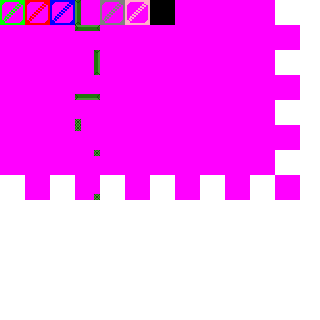
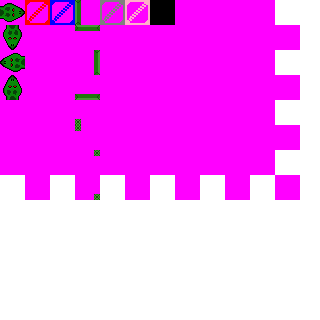
agregando algunos sprites

Changed region(s): [[0.0, 0.0, 0.0938, 0.3125]]

diff --git a/Snake/src/juego/Vivora.java b/Snake/src/juego/Vivora.java
@@ -13,7 +13,7 @@ public class Vivora {
 	public static int vidas = 3;
 	public static int puntos = 0;
 	private static int contador = 0;
-	private static char direccion = 'd';
+	public static char direccion = 'd';
 
 	// getters y setters
 	// ----------------------------------------------------------------------------------
@@ -67,6 +67,16 @@ public class Vivora {
 		if (contador >= 10) {
 			int x = this.x + despx;
 			int y = this.y + despy;
+
+			if (despx > 0 && despy == 0) {
+				this.direccion = 'd';
+			} else if (despx < 0 && despy == 0) {
+				this.direccion = 'i';
+			} else if (despx == 0 && despy > 0) {
+				this.direccion = 's';
+			} else if (despx == 0 && despy < 0) {
+				this.direccion = 'w';
+			}
 
 			switch (mapa[y * Mapa.CUADROS_ANCHO + x]) {
 			case 0xff00ff00:

diff --git a/Snake/src/juego/CuadroCabeza.java b/Snake/src/juego/CuadroCabeza.java
@@ -5,6 +5,11 @@ public class CuadroCabeza extends Cuadro {
 	private static final int color = 0xff00ff00;
 	private static final boolean solidez = true;
 	private int x, y;
+	public static Sprites Derecha;
+	public static Sprites Izquierda;
+	public static Sprites Arriba;
+	public static Sprites Abajo;
+
 	public static final int ID = 2;
 
 	// gett sett
@@ -29,5 +34,10 @@ public class CuadroCabeza extends Cuadro {
 
 	public CuadroCabeza() {
 		super(solidez, color, new Sprites(LADO, 0, 0, HojaSprites.Hoja1));
+		Derecha = new Sprites(LADO, 0, 0, HojaSprites.Hoja1);
+		Abajo = new Sprites(LADO, 0, 1, HojaSprites.Hoja1);
+		Izquierda = new Sprites(LADO, 0, 2, HojaSprites.Hoja1);
+		Arriba = new Sprites(LADO, 0, 3, HojaSprites.Hoja1);
+
 	}
 }

diff --git a/Snake/src/juego/Pantalla.java b/Snake/src/juego/Pantalla.java
@@ -109,6 +109,20 @@ public class Pantalla extends Canvas {
 					this.DibujarEnPos(x, y, this.ColeccionCuadros[1]);
 					break;
 				case CuadroCabeza.ID:
+					switch (Vivora.direccion) {
+					case 'd':
+						ColeccionCuadros[CuadroCabeza.ID].setSprite(CuadroCabeza.Derecha);
+						break;
+					case 'i':
+						ColeccionCuadros[CuadroCabeza.ID].setSprite(CuadroCabeza.Izquierda);
+						break;
+					case 's':
+						ColeccionCuadros[CuadroCabeza.ID].setSprite(CuadroCabeza.Abajo);
+						break;
+					case 'w':
+						ColeccionCuadros[CuadroCabeza.ID].setSprite(CuadroCabeza.Arriba);
+						break;
+					}
 					DibujarEnPos(x, y, this.ColeccionCuadros[CuadroCabeza.ID]);
 					break;
 				case CuadroCuerpo.ID:
